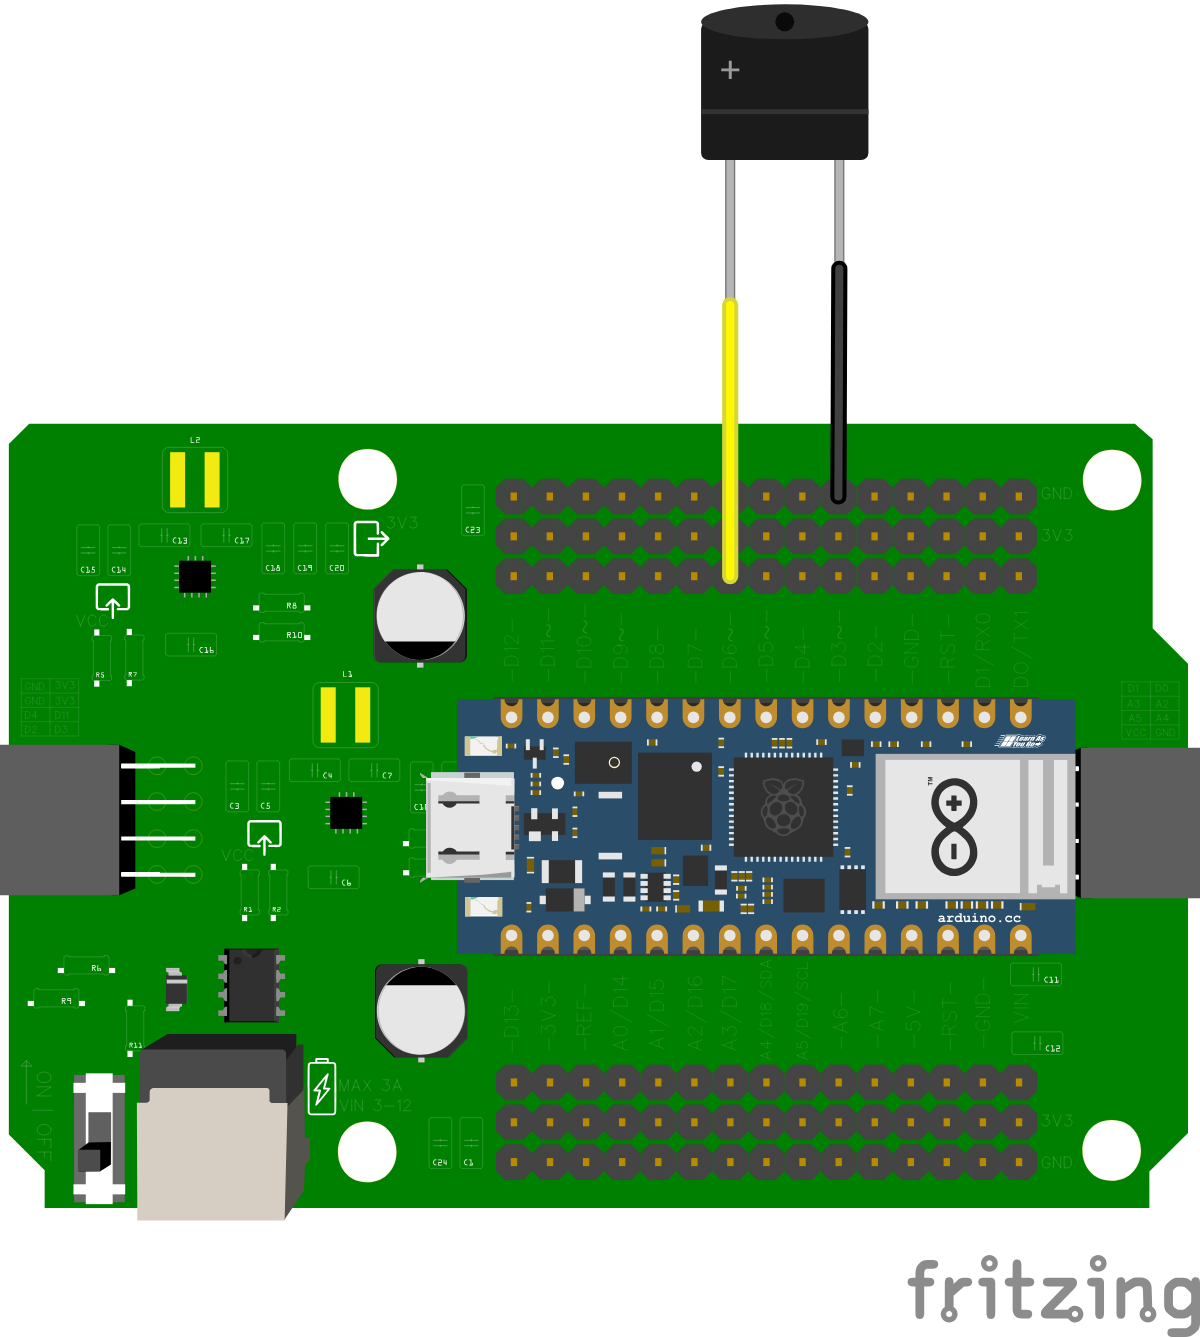
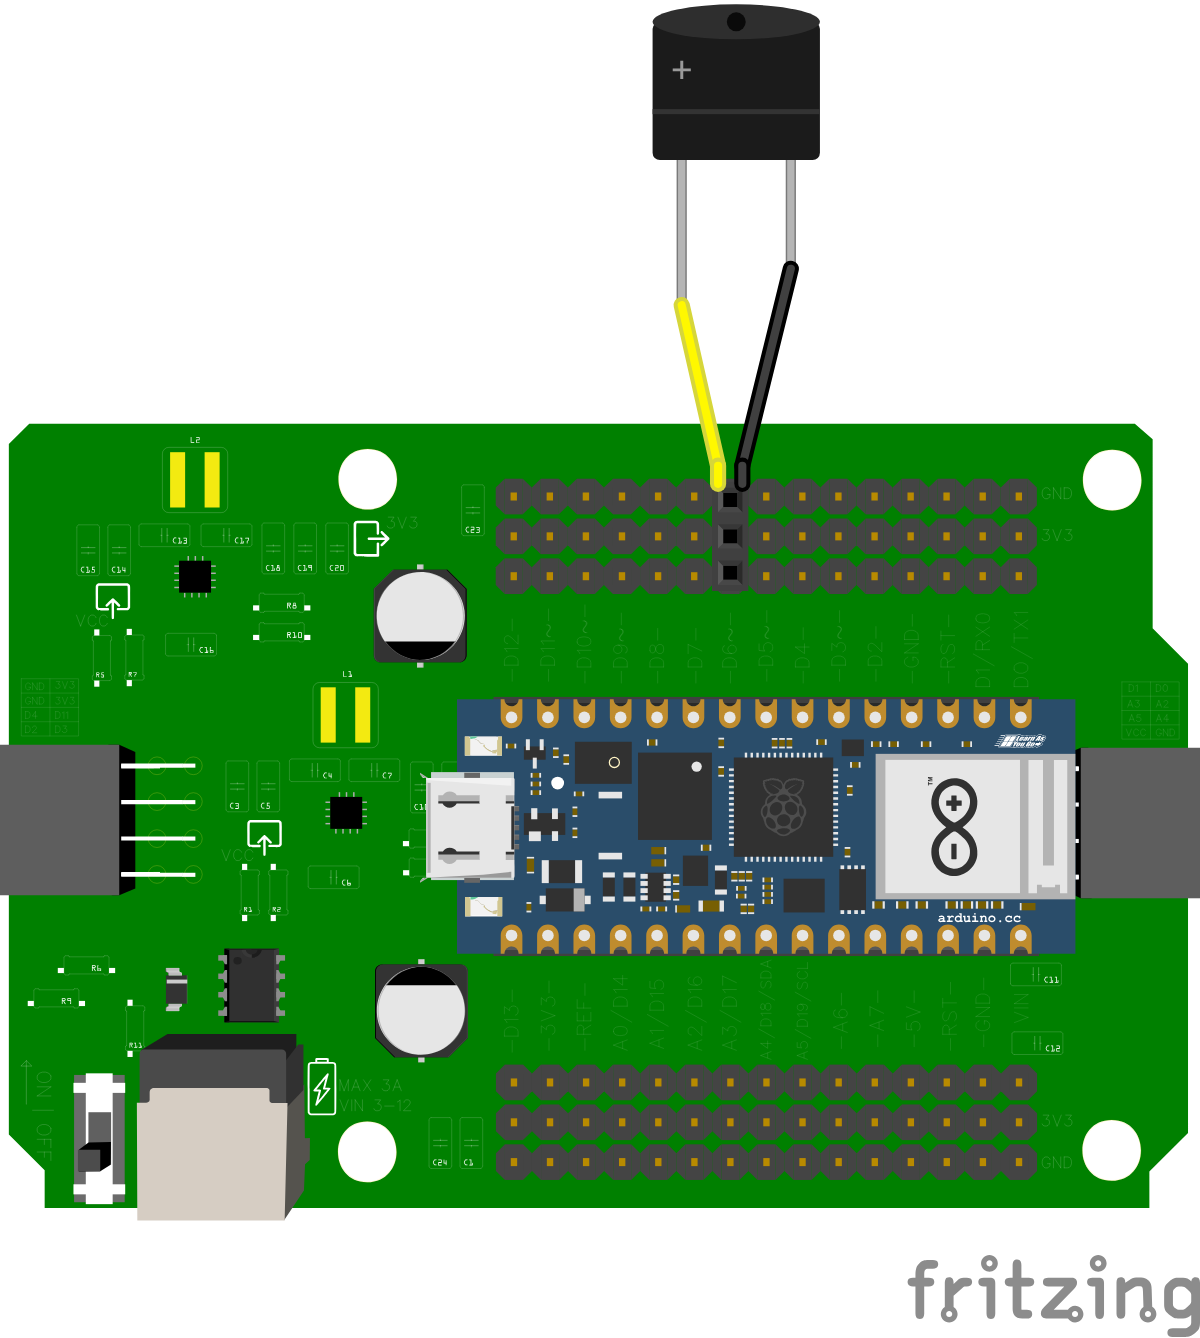
Robotica: per onderdeel één rijtje met GND, 3V3 en signaal
In de vorige versie gingen 3V3 en GND naar het rijtje van een buurpin, zodat
de draden naast elkaar liepen. De opdrachtgever wil per onderdeel één rijtje:
signaal, 3V3 en GND naast elkaar, zodat er een stekker van drie op past.

Elk schema heeft nu een stekker van drie pinnen op het rijtje van zijn pin,
zoals de servo op D6, en de draden eindigen aan de rand van die stekker.
Fritzing tekent een draad altijd boven een onderdeel, en drie draden die over
elkaar heen naar hun pin lopen, zijn niet te volgen. Een tweede signaalpin
(Trig, en G en B van de RGB-LED) krijgt een losse draad. De LED-weerstand staat
nu rechtop boven de stekker.

De lestekst noemt per onderdeel het rijtje (Echo, VCC en GND op het rijtje van
D8, enz.), en de gedeelde alinea over de rijen zegt dat je een onderdeel op
het rijtje van zijn pin aansluit. schemas.test.ts eist nu ook dat 3V3 en GND
op het rijtje van een signaalpin van het onderdeel zitten; op de vorige
schema's faalt hij.

Claude-Session: https://claude.ai/code/session_01AmMyeALxEdtqFWgowZCVkR

Changed region(s): [[0.5242, 0.0, 0.74, 0.4596]]

diff --git a/sites/informatica/robotica/src/lego-tests/schemas.test.ts b/sites/informatica/robotica/src/lego-tests/schemas.test.ts
@@ -40,6 +40,11 @@ function unzip(pad: string): Map<string, string> {
 
 /** De pinnen van het shield waar in de sketch iets op aangesloten is, met hun naam. */
 function shieldPinnen(fzz: string): string[] {
+  return shieldConnectoren(fzz).map((c) => c.naam);
+}
+
+/** Idem, met het connector-id erbij. */
+function shieldConnectoren(fzz: string): { id: number; naam: string }[] {
   const bestanden = unzip(join(FRITZING, fzz));
   const fz = [...bestanden].find(([n]) => n.endsWith('.fz'))?.[1] ?? '';
   const fzp = [...bestanden].find(([n]) => /^part\.Flitz_shield.*\.fzp$/.test(n))?.[1] ?? '';
@@ -54,8 +59,27 @@ function shieldPinnen(fzz: string): string[] {
   const bb = shield.match(/<breadboardView[\s\S]*?<\/breadboardView>/)?.[0] ?? '';
   return [...bb.matchAll(/<connector connectorId="(connector\d+)"[^>]*>[\s\S]*?<\/connector>/g)]
     .filter((m) => /<connect /.test(m[0]))
-    .map((m) => naam.get(m[1]) ?? m[1]);
+    .map((m) => ({ id: Number(m[1].slice(9)), naam: naam.get(m[1]) ?? m[1] }));
 }
+
+// De rijen van het shield in het onderdeel Flitz_shieldv3: boven de Nano
+// GND 0-14, 3V3 15-29 en de pinnen 30-44; eronder de pinnen 75-89, 3V3 90-104
+// en GND 105-119 (45-74 is de voet voor de Nano). Een rijtje is een kolom.
+const RIJ = (id: number) =>
+  id < 15
+    ? 'G'
+    : id < 30
+      ? 'V'
+      : id < 45
+        ? 'S'
+        : id >= 105
+          ? 'G'
+          : id >= 90
+            ? 'V'
+            : id >= 75
+              ? 'S'
+              : '?';
+const KOLOM = (id: number) => `${id < 45 ? 'boven' : 'onder'}${id % 15}`;
 
 /** D7, D6~ en A0/D14 worden D7, D6 en D14; 3V3 en GND blijven zoals ze zijn. */
 const pinnaam = (naam: string) => naam.match(/D\d+/)?.[0] ?? naam;
@@ -113,6 +137,19 @@ describe('de aansluitschema’s staan op het shield', () => {
         if (!tekst.includes(`**${pin}**`)) fout.push(`${id}: Aansluiten noemt ${pin} niet`);
       if (!tekst.includes('<ShieldRijen />'))
         fout.push(`${id}: geen uitleg van de rijen op het shield`);
+    }
+    expect(fout).toEqual([]);
+  });
+
+  it('3V3 en GND zitten op het rijtje van een signaalpin van het onderdeel', () => {
+    // De opdrachtgever wil per onderdeel één rijtje met GND, 3V3 en signaal, zodat
+    // er een stekker van drie op past; eerst gingen 3V3 en GND naar een buurpin.
+    const fout: string[] = [];
+    for (const schema of Object.values(SCHEMAS)) {
+      const c = shieldConnectoren(`${schema}.fzz`);
+      const signaal = new Set(c.filter((x) => RIJ(x.id) === 'S').map((x) => KOLOM(x.id)));
+      for (const x of c.filter((x) => RIJ(x.id) !== 'S'))
+        if (!signaal.has(KOLOM(x.id))) fout.push(`${schema}: ${x.naam} op een ander rijtje`);
     }
     expect(fout).toEqual([]);
   });

diff --git a/sites/informatica/robotica/CLAUDE.md b/sites/informatica/robotica/CLAUDE.md
@@ -15,7 +15,7 @@ Dit is een project waarin leerlingen zelf via een Arduino Nano RP2040 Connect se
 - **De site heeft vier ingangen**, elk in de navbar en als kaart op de homepage: de **Lego-auto** (`lego_auto/`, de leerroute in Python), de **Golfbot** (`golfbot/`, groep 7/8, blokken), **Onderdelen** (`docs/onderdelen/`, naslag) en **RoboCup Junior** (`docs/robocup/`, de wedstrijd Redden Basis). Editor, Cheatsheet, Er gaat iets mis en Robot checken staan onder **Hulp**. Tot november 2026 was de naslag één "Bibliotheek" onder `docs/Microcontrollers/Arduino Nano RP2040 Connect/`, met 44 pagina's in 16 categorieën die allemaal "Tutorial - …" heetten, spaties in de adressen en een sidebar die niemand opende; RoboCup zat daarnaast onder `Competities/RoboCup-Junior/Redden-Basis`. Elk oud adres stuurt door via `omleidingen` in `docusaurus.config.ts`, naar de sectie die het overnam, en `src/lego-tests/onderdelen.test.ts` eist dat voor de hele oude lijst.
 - **De code volgt de leaphymicropython die de online editor installeert** (main van `leaphy-robotics/leaphy-micropython`), niet een oudere. Een pin is een **naam als tekst** (`"D6"`, `"A0"`, `'LED'`): sinds augustus 2025 geeft de bibliotheek hem direct door aan `Pin()`, en een getal is daar het GPIO-nummer van de chip (`6` is het ingebouwde lampje, `9` tot `11` zitten aan de wifi-chip). `read_line_sensor` bestaat sinds mei 2025 niet meer; een digitale IR-sensor lees je met `Pin("D14", Pin.IN)`. `set_buzzer` weigert een toon boven 255 Hz, dus de buzzer gebruikt `PWM` uit `machine`. D18 tot en met D21 (A4 tot en met A7) lopen in MicroPython via de wifi-chip; een ultrasone sensor zit daarom op gewone D-pinnen (`read_distance("D7", "D8")`). `src/lego-tests/leaphy-api.test.ts` toetst elk python-blok in `docs/`, `lego_auto/` en `src/pages/` tegen `src/lego-tests/leaphy-api.json` (de modules en namen van de bibliotheek en de pinnen uit de `pins.csv` van MicroPython): elke import bestaat, elke pin is een naam die het bord kent, `read_distance` op een pin van de chip zelf, geen `set_buzzer` boven 255 Hz, en geen zwarte tekst na `fill("black")` op het OLED-scherm (`text()` is standaard zwart). Komt er een nieuwe versie van de bibliotheek, maak het JSON-bestand dan opnieuw met `scripts/leaphy-api.py` (de stappen staan bovenin dat script) en kijk wat de test zegt.
 - **RoboCup Junior** (`docs/robocup/`) gaat over Redden Basis, de liga voor beginners, en niet over Redden: elke bewering over de baan volgt de spelregels in `static/docs/RoboCupJuniorReddenBasis2025_rev1.pdf`. In november 2026 bleek dat de pagina's de regels van Redden volgden (een aluminiumrand om de zone waar een muur staat, een eindpunt dat je met de tape zou vinden terwijl het een zwarte driehoek is, zwarte ballen terwijl er alleen zilveren geleidende zijn) en dat de gaten en drempels ontbraken die punten opleveren. Nu: één startpagina met de spelregels in het kort en de punten, de materiaallijst, en per uitdaging een pagina in de volgorde van de baan, elk met een "Door naar"-link als laatste regel. De TOF op de multiplexer is de standaard afstandssensor: de code bij de ultrasone sensor gebruikt pin 18 en 19, en dat zijn A4 en A5 van I2C. `src/lego-tests/robocup.test.ts` bewaakt de volgorde, de links, een pagina per hindernis met punten, die feiten uit de spelregels, geen `read_distance` in de RoboCup-pagina's, en in de hele site dat een opsomming van de pinnen van het motor shield D2, D3, D4 en D11 is.
-- **Aansluitschema's staan op het shield**, niet los op de Nano (november 2026). In de les zit de Nano op het Leaphy Murphy Shield, met per pin een rijtje van drie: de pin zelf (binnen, naast de Nano), 3V3 (midden) en GND (buiten); de zes lessen LED, afstandssensor, digitale IR-sensor, servo, buzzer en RGB-LED leggen dat uit met de gedeelde alinea `docs/onderdelen/_delen/shield/rijen.md` (`<ShieldRijen />`). De schema's zijn gemaakt in Fritzing 1.0.8 en staan als bron in `static/fritzing/shield_*.fzz`, met de export ernaast als `shield_*_bb.png`. Een draad naar de binnenste of middelste rij loopt altijd over de pinnen ervoor; daarom gaan 3V3 en GND naar het rijtje van een buurpin (alle 3V3- en GND-pinnen zijn verbonden), zodat de draden naast elkaar lopen. De servo is de uitzondering: zijn stekker zit op het rijtje van D6. De RCWL-1601, de buzzer en de RGB-LED-module zijn eigen onderdelen in de .fzz (de RCWL is het HC-SR04 uit fritzing-parts, groen en met een andere naam). De RGB-LED zit op D10, D9 en D6 en niet meer op D9, D10 en D12: alleen in die volgorde kruist geen draad een andere. Fritzing laat bij een export een onderdeel weg waarvan de breadboard-SVG geen `<g id="breadboard">` heeft; zo ontbraken de USB-kabel in `nano_rp2040_verbinden.fzz` en het shield in de export, en daarom hebben die in de .fzz-bestanden zo'n laag gekregen. `src/lego-tests/schemas.test.ts` leest de .fzz en eist dat de pinnen op het shield precies de pinnen uit de code van de les zijn (plus GND, en 3V3 bij de sensoren en de servo), dat Aansluiten het schema toont en die pinnen noemt, dat het LED-schema een weerstand van 220 Ω heeft, en dat geen sensor of actuator nog een `nano_rp2040_`-plaatje heeft.
+- **Aansluitschema's staan op het shield**, niet los op de Nano (november 2026). In de les zit de Nano op het Leaphy Murphy Shield, met per pin een rijtje van drie: de pin zelf (binnen, naast de Nano), 3V3 (midden) en GND (buiten); de zes lessen LED, afstandssensor, digitale IR-sensor, servo, buzzer en RGB-LED leggen dat uit met de gedeelde alinea `docs/onderdelen/_delen/shield/rijen.md` (`<ShieldRijen />`). De schema's zijn gemaakt in Fritzing 1.0.8 en staan als bron in `static/fritzing/shield_*.fzz`, met de export ernaast als `shield_*_bb.png`. Een onderdeel krijgt zijn signaal, 3V3 en GND op één rijtje, met een stekker van drie pinnen erop (de Dagu-stekker uit fritzing-parts, rechtop gezet), zoals de servo op D6; de draden eindigen aan de rand van de stekker, want Fritzing tekent een draad altijd boven een onderdeel, en draden die over elkaar heen naar hun pin liepen, waren niet te volgen. Een tweede signaalpin (Trig, en G en B van de RGB-LED) krijgt een losse draad naar de binnenste rij van zijn pin. Eerst gingen 3V3 en GND naar het rijtje van een buurpin; de opdrachtgever wil één rijtje per onderdeel. De RCWL-1601, de buzzer en de RGB-LED-module zijn eigen onderdelen in de .fzz (de RCWL is het HC-SR04 uit fritzing-parts, groen en met een andere naam). De RGB-LED zit op D10, D9 en D6 en niet meer op D9, D10 en D12: alleen in die volgorde kruist geen draad een andere. Fritzing laat bij een export een onderdeel weg waarvan de breadboard-SVG geen `<g id="breadboard">` heeft; zo ontbraken de USB-kabel in `nano_rp2040_verbinden.fzz` en het shield in de export, en daarom hebben die in de .fzz-bestanden zo'n laag gekregen. `src/lego-tests/schemas.test.ts` leest de .fzz en eist dat de pinnen op het shield precies de pinnen uit de code van de les zijn (plus GND, en 3V3 bij de sensoren en de servo), dat 3V3 en GND op het rijtje van een signaalpin van het onderdeel zitten, dat Aansluiten het schema toont en die pinnen noemt, dat het LED-schema een weerstand van 220 Ω heeft, en dat geen sensor of actuator nog een `nano_rp2040_`-plaatje heeft.
 - **Onderdelen versus lego_auto** — twee rollen, twee stijlen:
   - **Onderdelen** (`docs/onderdelen/`) is naslag: complete, vlot uit te voeren scripts die je kunt kopiëren. Eén pagina per onderdeel of handeling, met `## Materiaal`, `## Aansluiten`, `## Code` en waar nodig `## Er gaat iets mis`, en een `description` in de frontmatter. De overzichtspagina (`docs/onderdelen/index.mdx` met `src/components/OnderdelenOverzicht`) leest de groepen en de pagina's uit `onderdelenSidebar`, en de kaart van een pagina uit `sidebar_custom_props` in zijn frontmatter: `kort` (één regel; de description was drie tot vijf regels per kaart), `foto` (een pad onder `docs/onderdelen/img/`, zodat je herkent wat er op tafel ligt), `aansluiting` (digitale pin, I2C, …) en `hulp`. Aan de slag heeft in `sidebars.ts` `customProps: { weergave: 'stappen' }` en wordt een genummerde rij, met Er gaat iets mis (`hulp: true`) als losse regel eronder. Geen DocCardList, want die zet een emoji voor elke titel. `onderdelen.test.ts` eist `kort` bij elke pagina, een foto die bestaat bij elke kaart en een `aansluiting` bij elke sensor en actuator. De groepen in `sidebars.ts` zijn Aan de slag, Sensoren, Actuatoren en Op de robot; een nieuw onderdeel krijgt een plek in een groep, en de test eist dat elke pagina in de map ook in de sidebar staat. Wat lego_auto uit een onderdeel importeert, staat als partial in `docs/onderdelen/_delen/<onderdeel>/` (een map met `_` wordt geen pagina), en zowel de onderdeelpagina als de lego_auto-pagina importeren hem met `@site/docs/onderdelen/_delen/…`: één bron. Eén uitzondering op de naslagstijl: `ingebouwd-lampje` (en `led`) zijn de instap voor wie nog nooit code schreef en bouwen het programma regel voor regel op, met `<Voorkennis>`-links naar de python-cursus.
   - Het **lego_auto**-traject is opbouwend: één groeiend robotscript ("Het robotscript bouwen — Deel N") waarin elke les één of twee nieuwe concepten of regels toevoegt, en dat uitmondt in de lijnvolger. Gebruik nooit een import-stub voor een pagina met python-code; stubs zijn alleen voor hardware- en instructiepagina's zonder code.

diff --git a/sites/informatica/robotica/docs/onderdelen/_delen/shield/rijen.md b/sites/informatica/robotica/docs/onderdelen/_delen/shield/rijen.md
@@ -1,4 +1,5 @@
 Op het shield heeft elke pin van de Nano een eigen rijtje van drie pinnen. De
 binnenste, naast de Nano, is de pin zelf (bijvoorbeeld D7). De middelste is
-**3V3** en de buitenste is **GND**. Alle 3V3-pinnen zijn met elkaar verbonden,
-en alle GND-pinnen ook: welke je neemt, maakt niet uit.
+**3V3** en de buitenste is **GND**. Sluit een onderdeel aan op het rijtje van
+zijn pin: dan zitten signaal, 3V3 en GND naast elkaar, en past er een stekker
+van drie pinnen op.
